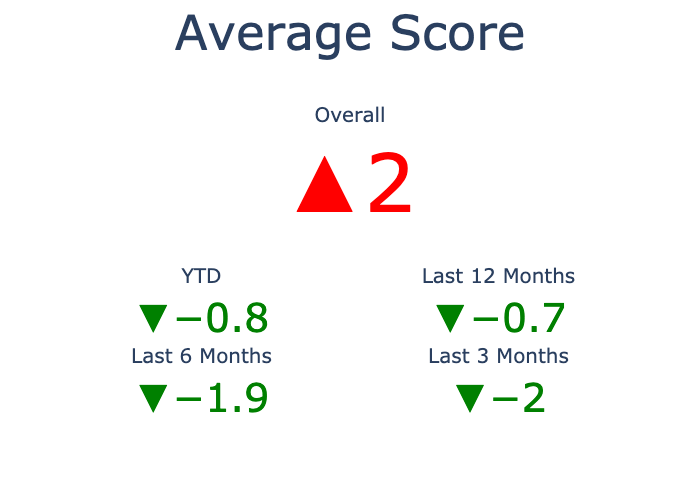
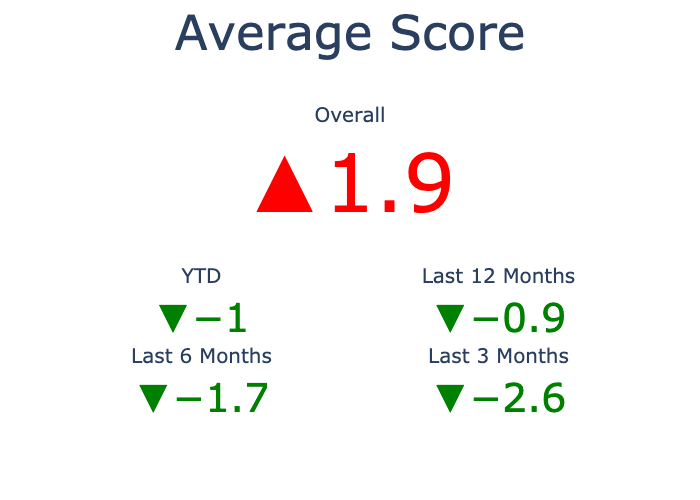
updated Monkey stats

diff --git a/reports/Monkey_Dunncroft-CastlePointPark_ShortsthenLongs.md b/reports/Monkey_Dunncroft-CastlePointPark_ShortsthenLongs.md
@@ -1,6 +1,6 @@
 # Stats for Monkey at Dunncroft - Castle Point Park from the Shorts then Longs
 
-Includes rounds up until 2023-10-09 15:10:00
+Includes rounds up until 2023-11-03 21:20:00
 
 ## Summary Statistics
 

diff --git a/reports/Monkey_BryanPark_YellowsTees.md b/reports/Monkey_BryanPark_YellowsTees.md
@@ -1,6 +1,6 @@
 # Stats for Monkey at Bryan Park from the Yellows Tees
 
-Includes rounds up until 2023-10-09 15:10:00
+Includes rounds up until 2023-11-03 21:20:00
 
 ## Summary Statistics
 

diff --git a/reports/Monkey_BryanPark_PaverTees.md b/reports/Monkey_BryanPark_PaverTees.md
@@ -1,6 +1,6 @@
 # Stats for Monkey at Bryan Park from the Paver Tees
 
-Includes rounds up until 2023-10-09 15:10:00
+Includes rounds up until 2023-11-03 21:20:00
 
 ## Summary Statistics
 
